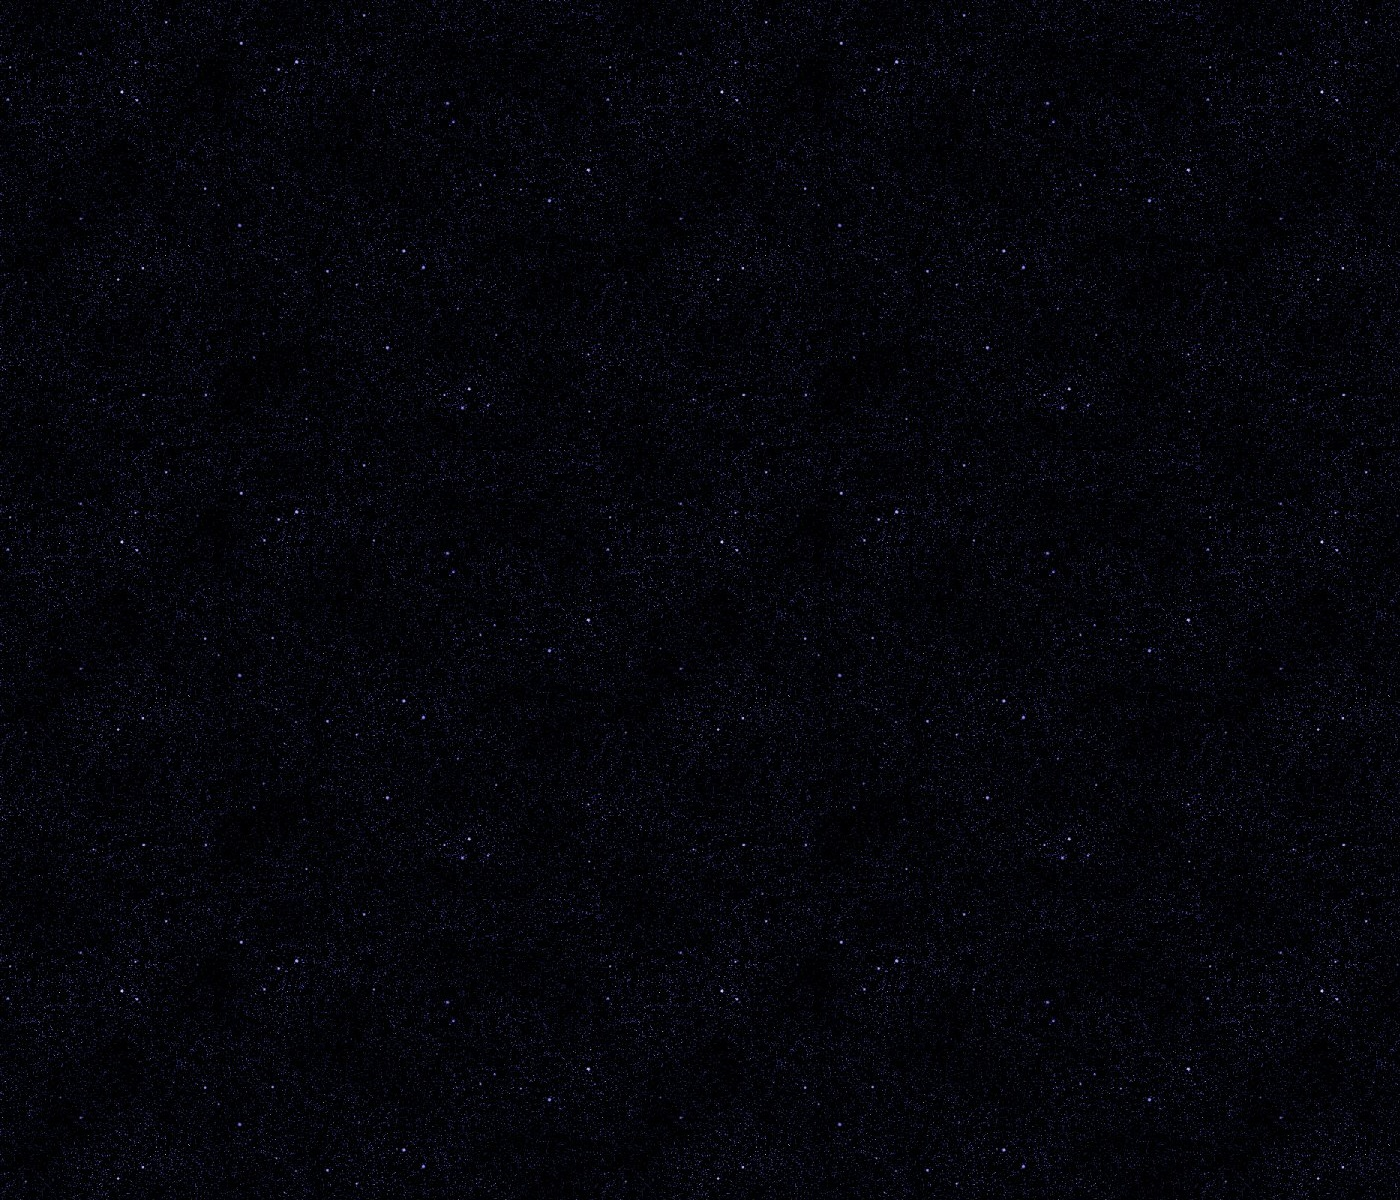
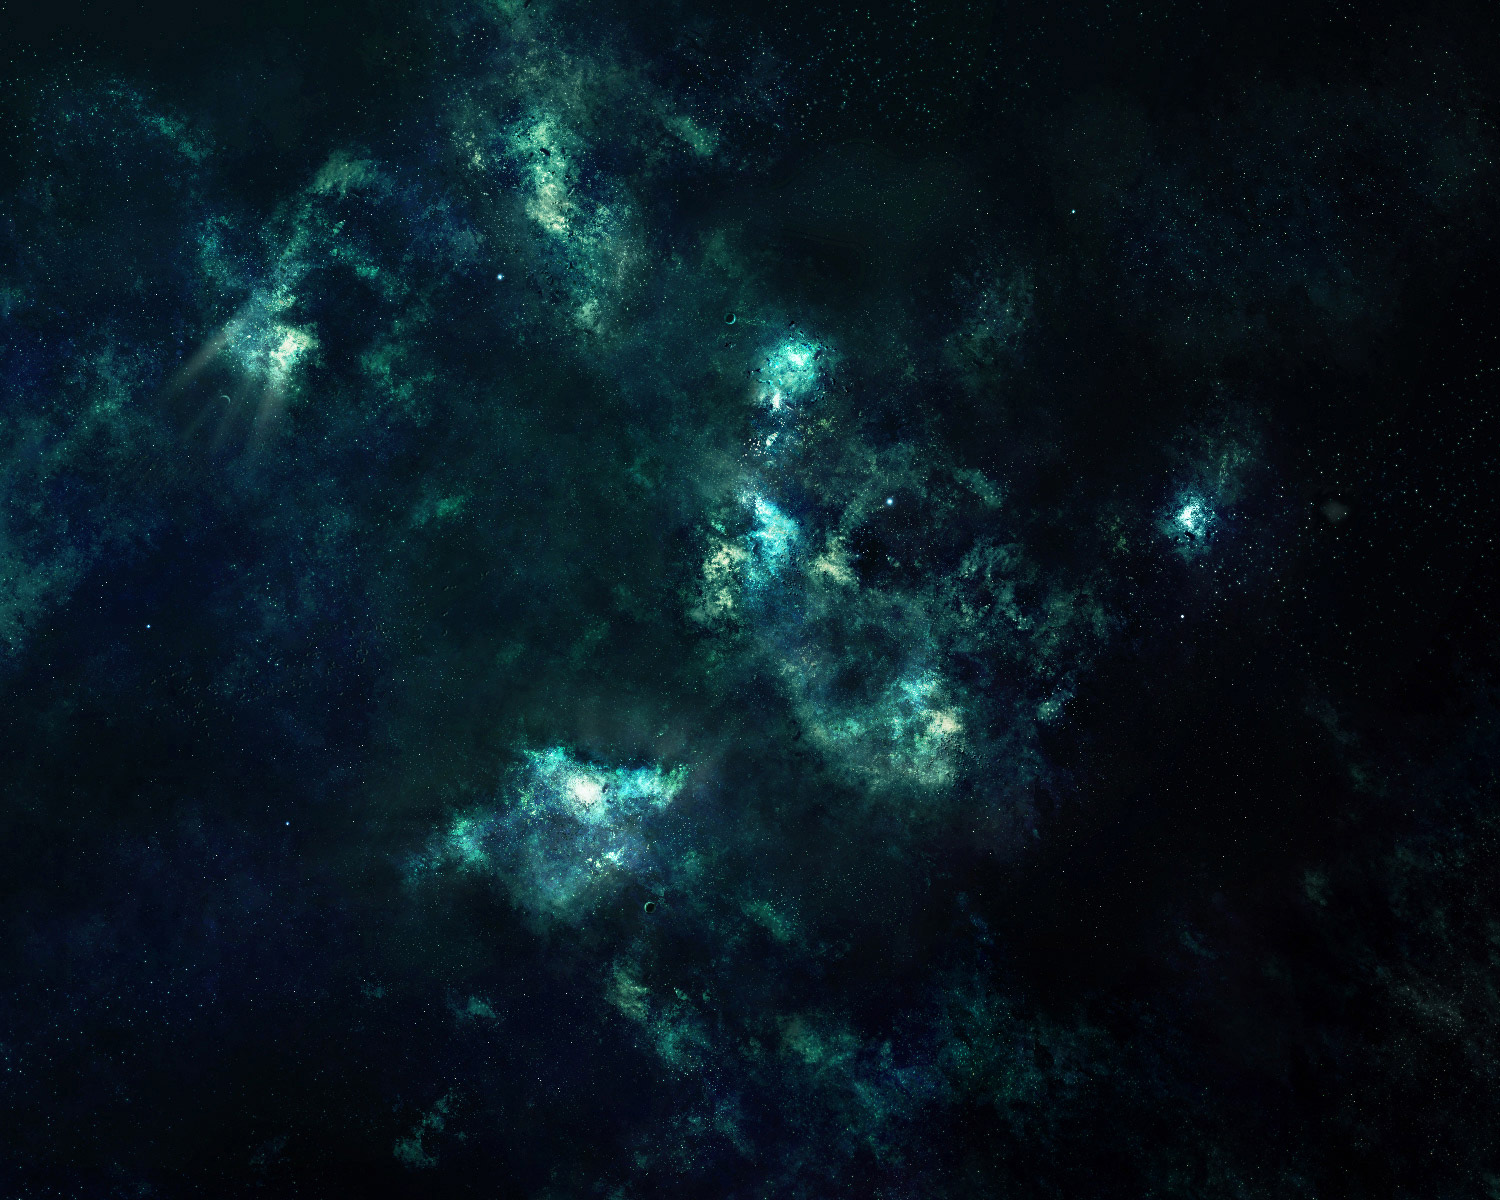
+ background refined
git-svn-id: svn://localhost/trunk@19 3d729d0f-a125-5f4a-87db-776b634aa94b

diff --git a/NRPlanes.Client/NRPlanes.Client/Common/CoordinatesTransformer.cs b/NRPlanes.Client/NRPlanes.Client/Common/CoordinatesTransformer.cs
@@ -6,30 +6,60 @@ namespace NRPlanes.Client.Common
 {
     public class CoordinatesTransformer
     {
-        public Size FullLogicalSize { get; private set; }
-        
-        public Rectangle PhysicalRectangle { get; private set; }
-
-        private Rect _visibleLogicalRectangle;
-        public Rect VisibleLogicalRectangle
+        private readonly Size m_fullLogicalSize;
+        public Size FullLogicalSize
         {
-            get { return _visibleLogicalRectangle; }
+            get
+            {
+                return m_fullLogicalSize;
+            }
+        }
+        
+        private readonly Rectangle m_physicalRectangle;
+        public Rectangle PhysicalRectangle 
+        { 
+            get 
+            {
+                return m_physicalRectangle;
+            }
         }
 
+        private Rect m_visibleLogicalRectangle;
+        public Rect VisibleLogicalRectangle
+        {
+            get { return m_visibleLogicalRectangle; }
+        }
+
+        private readonly double m_aspect;
+        public double Aspect
+        {
+            get
+            {
+                return m_aspect;
+            }
+        }
+
+        private readonly Size m_normalSize;
         /// <summary>
         /// Visible logical rectangle size then scale factor equals 1
         /// </summary>
-        public Size NormalSize { get; private set; }
+        public Size NormalSize
+        {
+            get
+            {
+                return m_normalSize;
+            }
+        }
 
-        private double _scale;
+        private double m_scale;
         public double Scale
         {
-            get { return _scale; }
+            get { return m_scale; }
             set
             {
-                _scale = value;
+                m_scale = value;
 
-                ScaleFrom(NormalSize, _scale);
+                ScaleFrom(NormalSize, m_scale);
             }
         }
 
@@ -38,16 +68,15 @@ namespace NRPlanes.Client.Common
         {
         }
 
-        public CoordinatesTransformer(Size fullLogicalSize, Rectangle physicalRectangle, double normalWidth)
+        public CoordinatesTransformer(Size fullLogicalSize, Rectangle physicalRectangle, double normalLogicalWidth)
         {
-            FullLogicalSize = fullLogicalSize;
-
-            PhysicalRectangle = physicalRectangle;
-
-            _visibleLogicalRectangle = new Rect(new Size(MaximalVisibleLogicalSize().Width,
-                                                        MaximalVisibleLogicalSize().Height));
-
-            SetNormalSizeFromNormalWidth(normalWidth);
+            m_aspect = physicalRectangle.GetSize().Aspect;
+            m_fullLogicalSize = fullLogicalSize;
+            m_physicalRectangle = physicalRectangle;
+            m_visibleLogicalRectangle = new Rect(
+                new Size(MaximalVisibleLogicalSize().Width, 
+                    MaximalVisibleLogicalSize().Height));
+            m_normalSize = new Size(normalLogicalWidth, normalLogicalWidth / m_aspect);
 
             Scale = 1.0;
         }
@@ -57,13 +86,12 @@ namespace NRPlanes.Client.Common
             var newVisibleWidth = initSize.Width / scale;
             var newVisibleHeight = initSize.Height / scale;
 
-            _visibleLogicalRectangle.X -= (newVisibleWidth - _visibleLogicalRectangle.Width) / 2.0;
-            _visibleLogicalRectangle.Y -= (newVisibleHeight - _visibleLogicalRectangle.Height) / 2.0;
+            m_visibleLogicalRectangle.X -= (newVisibleWidth - m_visibleLogicalRectangle.Width) / 2.0;
+            m_visibleLogicalRectangle.Y -= (newVisibleHeight - m_visibleLogicalRectangle.Height) / 2.0;
 
-            _visibleLogicalRectangle.Width = newVisibleWidth;
-            _visibleLogicalRectangle.Height = newVisibleHeight;
+            m_visibleLogicalRectangle.Width = newVisibleWidth;
+            m_visibleLogicalRectangle.Height = newVisibleHeight;
         }
-
         private Size MaximalVisibleLogicalSize()
         {
             double logicalAspect = FullLogicalSize.Aspect;
@@ -86,11 +114,6 @@ namespace NRPlanes.Client.Common
             return new Size(visibleWidth, visibleHeight);
         }
 
-        public void SetNormalSizeFromNormalWidth(double normalLogicalWidth)
-        {
-            NormalSize = new Size(normalLogicalWidth, normalLogicalWidth / PhysicalRectangle.GetSize().Aspect);
-        }
-
         public void ScaleToFit()
         {
             double minScale = Math.Min(NormalSize.Width / FullLogicalSize.Width,
@@ -98,34 +121,31 @@ namespace NRPlanes.Client.Common
 
             Scale = minScale;
         }
-
         public void SetCenterOfView(Vector center, bool applyConstraints = true)
         {
-            _visibleLogicalRectangle.X = center.X - VisibleLogicalRectangle.Width / 2.0;
+            m_visibleLogicalRectangle.X = center.X - VisibleLogicalRectangle.Width / 2.0;
 
-            _visibleLogicalRectangle.Y = center.Y - VisibleLogicalRectangle.Height / 2.0;
+            m_visibleLogicalRectangle.Y = center.Y - VisibleLogicalRectangle.Height / 2.0;
 
             if (applyConstraints)
             {
-                _visibleLogicalRectangle.X = Math.Max(0, _visibleLogicalRectangle.X);
-                _visibleLogicalRectangle.X = Math.Min(FullLogicalSize.Width - _visibleLogicalRectangle.Width, _visibleLogicalRectangle.X);
+                m_visibleLogicalRectangle.X = Math.Max(0, m_visibleLogicalRectangle.X);
+                m_visibleLogicalRectangle.X = Math.Min(FullLogicalSize.Width - m_visibleLogicalRectangle.Width, m_visibleLogicalRectangle.X);
 
-                _visibleLogicalRectangle.Y = Math.Max(0, _visibleLogicalRectangle.Y);
-                _visibleLogicalRectangle.Y = Math.Min(FullLogicalSize.Height - _visibleLogicalRectangle.Height, _visibleLogicalRectangle.Y);
+                m_visibleLogicalRectangle.Y = Math.Max(0, m_visibleLogicalRectangle.Y);
+                m_visibleLogicalRectangle.Y = Math.Min(FullLogicalSize.Height - m_visibleLogicalRectangle.Height, m_visibleLogicalRectangle.Y);
             }
         }
-
         public Vector2 Transform(Vector vector)
         {
-            double multX = PhysicalRectangle.GetSize().Width / _visibleLogicalRectangle.Width;
-            double multY = PhysicalRectangle.GetSize().Height / _visibleLogicalRectangle.Height;
+            double multX = PhysicalRectangle.GetSize().Width / m_visibleLogicalRectangle.Width;
+            double multY = PhysicalRectangle.GetSize().Height / m_visibleLogicalRectangle.Height;
 
-            var transformed = new Vector2((float)(PhysicalRectangle.X + multX * (vector.X - _visibleLogicalRectangle.Left)),
-                                          (float)(PhysicalRectangle.Y + PhysicalRectangle.GetSize().Height - multY * (vector.Y - _visibleLogicalRectangle.Bottom)));
+            var transformed = new Vector2((float)(PhysicalRectangle.X + multX * (vector.X - m_visibleLogicalRectangle.Left)),
+                                          (float)(PhysicalRectangle.Y + PhysicalRectangle.GetSize().Height - multY * (vector.Y - m_visibleLogicalRectangle.Bottom)));
 
-            return transformed;
+            return transformed;            
         }
-
         public Rectangle Transform(Rect rect)
         {
             var leftTopTransormed = Transform(rect.TopLeft);
@@ -138,12 +158,11 @@ namespace NRPlanes.Client.Common
 
             return transformed;
         }
-
         public Vector2 CreateScaleVector(Size logicalSize, Size physicalSize)
         {
-            var needPhysicalWidth = logicalSize.Width * PhysicalRectangle.GetSize().Width / _visibleLogicalRectangle.Width;
+            var needPhysicalWidth = logicalSize.Width * PhysicalRectangle.GetSize().Width / m_visibleLogicalRectangle.Width;
 
-            var needPhysicalHeight = logicalSize.Height * PhysicalRectangle.GetSize().Height / _visibleLogicalRectangle.Height;
+            var needPhysicalHeight = logicalSize.Height * PhysicalRectangle.GetSize().Height / m_visibleLogicalRectangle.Height;
 
             var scaleVector = new Vector(needPhysicalWidth / physicalSize.Width,
                                          needPhysicalHeight / physicalSize.Height);

diff --git a/NRPlanes.Client/NRPlanes.Client/Common/GameWorldXna.cs b/NRPlanes.Client/NRPlanes.Client/Common/GameWorldXna.cs
@@ -50,7 +50,10 @@ namespace NRPlanes.Client.Common
         }
 
         private SpriteBatch m_spriteBatch;
+
         private Texture2D m_background;
+        // normal (with 1.0 scale factor) visible width of background image
+        private readonly int m_backgroundVisiblePartWidth;        
 
         private readonly InstanceMapper m_instanceMapper;        
         private readonly SoundManager m_soundManager;
@@ -66,7 +69,7 @@ namespace NRPlanes.Client.Common
             get { return m_coordinatesTransformer; }
         }
 
-        public GameObject CenterOfView { get; set; }
+        public GameObject CenterOfViewGameObject { get; set; }
 
         public new PlanesGame Game
         {
@@ -83,6 +86,8 @@ namespace NRPlanes.Client.Common
             m_gameWorld = gameWorld;
             m_gameWorld.GameObjectStatusChanged += GameObjectStatusChanged;
             m_gameWorld.CollisionDetected += CollisionDetected;
+
+            m_backgroundVisiblePartWidth = gameFieldRectangle.Width;
 
             m_coordinatesTransformer = new CoordinatesTransformer(m_gameWorld.Size, gameFieldRectangle, 180);
             m_coordinatesTransformer.ScaleToFit();
@@ -226,7 +231,7 @@ namespace NRPlanes.Client.Common
         }
         public void ForceSetCameraOnCenterOfView()
         {
-            m_coordinatesTransformer.SetCenterOfView(CenterOfView.Position);
+            m_coordinatesTransformer.SetCenterOfView(CenterOfViewGameObject.Position);
         }
         public override void Update(GameTime gameTime)
         {            
@@ -265,16 +270,7 @@ namespace NRPlanes.Client.Common
             DrawAdditionalInfo(gameTime);
             m_spriteBatch.End();
 
-            m_spriteBatch.Begin(SpriteSortMode.BackToFront, BlendState.Additive);
-            foreach (var particle in m_particles)
-            {
-                particle.Draw(gameTime, m_spriteBatch);
-            }
-            //m_spriteBatch.End();
-
-            // sprite sorting not available through SpriteBatch.Begin calls
-
-            //m_spriteBatch.Begin(SpriteSortMode.BackToFront, BlendState.AlphaBlend);
+            m_spriteBatch.Begin(SpriteSortMode.BackToFront, BlendState.AlphaBlend);
             using (var handle = m_safeDrawableGameComponents.SafeRead())
             {
                 foreach (var drawableGameObject in handle.Items)
@@ -283,6 +279,15 @@ namespace NRPlanes.Client.Common
                 }
             }
             m_spriteBatch.End();
+
+            m_spriteBatch.Begin(SpriteSortMode.BackToFront, BlendState.Additive);
+            foreach (var particle in m_particles)
+            {
+                particle.Draw(gameTime, m_spriteBatch);
+            }
+            m_spriteBatch.End();
+
+            // sprite sorting not available through SpriteBatch.Begin calls            
             
             // end of drawing xna game world
 
@@ -300,13 +305,13 @@ namespace NRPlanes.Client.Common
             const double followingSpeedCoeff = 0.02; // 0 - static, 1 - instantaneous camera following
             const double scaleInertness = 0.995;
 
-            if (CenterOfView != null)
+            if (CenterOfViewGameObject != null)
             {
                 #region View position
 
                 var oldCenter = m_coordinatesTransformer.VisibleLogicalRectangle.Center;
 
-                var offset = CenterOfView.Position - oldCenter;
+                var offset = CenterOfViewGameObject.Position - oldCenter;
 
                 m_coordinatesTransformer.SetCenterOfView(oldCenter + followingSpeedCoeff * offset);
                 #endregion
@@ -314,7 +319,7 @@ namespace NRPlanes.Client.Common
 
                 #region Scale
 
-                double newScale = Math.Exp(-0.01 * CenterOfView.Velocity.Length);
+                double newScale = Math.Exp(-0.01 * CenterOfViewGameObject.Velocity.Length);
 
                 m_coordinatesTransformer.Scale = m_coordinatesTransformer.Scale * scaleInertness +
                                                 newScale * (1.0 - scaleInertness);
@@ -323,11 +328,30 @@ namespace NRPlanes.Client.Common
         }
         private void DrawBackground()
         {
-            return;
+            Rectangle destination = m_coordinatesTransformer.PhysicalRectangle;
 
-            var destination = m_coordinatesTransformer.PhysicalRectangle;
-            
-            m_spriteBatch.Draw(m_background, destination, null, Color.White, 0.0f, new Vector2(), SpriteEffects.None, 1.0f);
+            double backgroundVisiblePartHeight = m_backgroundVisiblePartWidth / m_coordinatesTransformer.Aspect;
+
+            Rect vis = m_coordinatesTransformer.VisibleLogicalRectangle;
+
+            // moving factors belongs range [0; 1]
+            double xMovingFactor = (vis.Center.X - vis.Width / 2) / (m_coordinatesTransformer.FullLogicalSize.Width - vis.Width);
+            double yMovingFactor = (vis.Center.Y - vis.Height / 2) / (m_coordinatesTransformer.FullLogicalSize.Height - vis.Height);
+
+            //Rectangle source = new Rectangle(
+            //    (int)(xMovingFactor * (m_background.Width - m_backgroundVisiblePartWidth)),
+            //    (int)((m_background.Height - height) * (1 - yMovingFactor)),
+            //    m_backgroundVisiblePartWidth, (int)height); 
+
+            //m_spriteBatch.Draw(m_background, destination, source, Color.White); //, 0.0f, new Vector2(), SpriteEffects.None, 1.0f);
+
+            Vector2 pos = new Vector2((float)(-xMovingFactor * (m_background.Width - m_backgroundVisiblePartWidth)),
+                (float)(-1 * (m_background.Height - backgroundVisiblePartHeight) * (1 - yMovingFactor)));
+
+            //float screensCount = (float) (m_coordinatesTransformer.FullLogicalSize.Width / m_coordinatesTransformer.NormalSize.Width);            
+            float scale = m_coordinatesTransformer.PhysicalRectangle.Width / m_backgroundVisiblePartWidth;
+
+            m_spriteBatch.Draw(m_background, pos, null, Color.White, 0.0f, new Vector2(), scale, SpriteEffects.None, 1.0f);
         }
         private void DrawDebugInfo()
         {

diff --git a/NRPlanes.Client/NRPlanes.Client/Common/GameManager.cs b/NRPlanes.Client/NRPlanes.Client/Common/GameManager.cs
@@ -69,7 +69,7 @@ namespace NRPlanes.Client.Common
 
             m_gameWorld.AddPlaneController(new LocalPlaneController(m_ownPlane));
 
-            m_gameWorldXna.CenterOfView = m_ownPlane;
+            m_gameWorldXna.CenterOfViewGameObject = m_ownPlane;
             m_gameWorldXna.ForceSetCameraOnCenterOfView();
             #endregion
 
